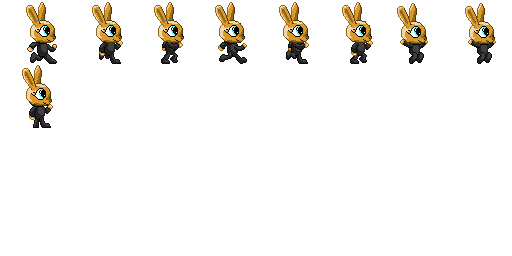
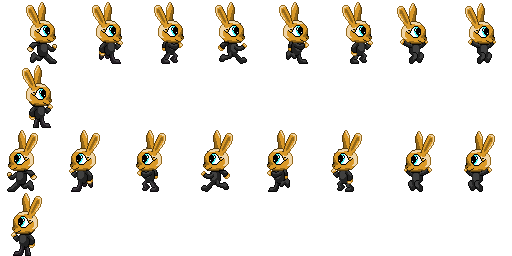
Added sprites in both directions

diff --git a/src/sprite.cpp b/src/sprite.cpp
@@ -61,7 +61,7 @@ void Sprite::draw(int viewx,int viewy)
 	if(facing==FACING_LEFT) oslMirrorImageH(image);	// return to normal.
 #else
 	// doesn't do facing. :(
-	SDL_Rect src={left,top,cellw,cellh},dest={x-width/2-viewx,y-height/4-viewy,cellw,cellh};
+	SDL_Rect src={static_cast<Sint16>(left),static_cast<Sint16>(top),static_cast<Uint16>(cellw),static_cast<Uint16>(cellh)},dest={static_cast<Sint16>(x-width/2-viewx),static_cast<Sint16>(y-height/4-viewy),static_cast<Uint16>(cellw),static_cast<Uint16>(cellh)};
 	SDL_BlitSurface(image,&src,screen,&dest);
 #endif
 }
@@ -102,14 +102,27 @@ void Sprite::updatePhysics(Map *map)
 	frameTimer-=1;
 	if(frameTimer<0) {
 		frameTimer=3;
-		if(state==CS_RUNNING)	frame=(frame+1)%6;
-		if(state==CS_STANDING) frame=10;
-		if(state==CS_JUMPING) frame=6;
-		if(state==CS_FALLING) frame=20;	// was 8
-		if(state==CS_LANDING) frame=7;
-		if(state==CS_DEAD) frame=21;	// was 9
-		if(state==CS_PUNCHING) frame=11+((frame+1)%3);
-		if(state==CS_HIT) frame=15;
+        if(facing==FACING_LEFT){
+            if(state==CS_RUNNING)	frame=20+((frame+1)%14);
+            if(state==CS_STANDING) frame=30;
+            if(state==CS_JUMPING) frame=26;
+            if(state==CS_FALLING) frame=40;	// was 8
+            if(state==CS_LANDING) frame=27;
+            if(state==CS_DEAD) frame=41;	// was 9
+            if(state==CS_PUNCHING) frame=11+((frame+1)%3);
+            if(state==CS_HIT) frame=15;
+        }// flip
+        if(facing==FACING_RIGHT){
+            if(state==CS_RUNNING)	frame=(frame+1)%6;
+            if(state==CS_STANDING) frame=10;
+            if(state==CS_JUMPING) frame=6;
+            if(state==CS_FALLING) frame=20;	// was 8
+            if(state==CS_LANDING) frame=7;
+            if(state==CS_DEAD) frame=21;	// was 9
+            if(state==CS_PUNCHING) frame=11+((frame+1)%3);
+            if(state==CS_HIT) frame=15;
+
+        }// return to normal.
 	}
 
 	if(vx<-1.0f || vx>1.0f) state=CS_RUNNING;

diff --git a/src/map.cpp b/src/map.cpp
@@ -173,7 +173,7 @@ void Map::drawTile(int tile, int x, int y)
 	levelImage->y=dy;	// draw it where it goes
 	oslDrawImage(levelImage);
 #else
-	SDL_Rect src={left,top,cellw,cellh},dest={dx,dy,cellw,cellh};
+	SDL_Rect src={static_cast<Sint16>(left),static_cast<Sint16>(top),static_cast<Uint16>(cellw),static_cast<Uint16>(cellh)},dest={static_cast<Sint16>(dx),static_cast<Sint16>(dy),static_cast<Uint16>(cellw),static_cast<Uint16>(cellh)};
 	SDL_BlitSurface( levelImage, &src, screen, &dest);
 #endif
 }
@@ -184,7 +184,7 @@ void Map::draw()
 	oslDrawImage(backgroundImage);
 #else
 	if(backgroundImage) {
-		SDL_Rect src={0,0,screen->w,screen->h};
+		SDL_Rect src={0,0,static_cast<Uint16>(screen->w),static_cast<Uint16>(screen->h)};
 		int srangex=cellw*tilesAcross-screen->w;
 		int srangey=cellh*tilesDown-screen->h;
 		int drangex=backgroundImage->w-screen->w;

diff --git a/src/hud.cpp b/src/hud.cpp
@@ -1,5 +1,5 @@
 #include <SDL/SDL.h>
-#include <SDL/SDL_image.h>
+#include <SDL_image/SDL_image.h>
 #include "hud.h"
 #include "falling.h"
 
@@ -61,8 +61,8 @@ void Hud::animateScore(int viewx,int viewy,Falling *who)
 
 void Hud::drawDigit(int x,int y,int i)
 {
-	SDL_Rect src={i*32,0,32,32};
-	SDL_Rect dest={x,y,32,32};
+	SDL_Rect src={static_cast<Sint16>(i*32),0,32,32};
+	SDL_Rect dest={static_cast<Sint16>(x),static_cast<Sint16>(y),32,32};
 	SDL_BlitSurface(numbers,&src,screen,&dest);
 }
 
@@ -73,7 +73,7 @@ void Hud::drawArrow(int x,int y,int i)
 
 void Hud::drawIcon(int x,int y,SDL_Surface *image)
 {
-	SDL_Rect dest={x,y,0,0};
+	SDL_Rect dest={static_cast<Sint16>(x),static_cast<Sint16>(y),0,0};
 	SDL_BlitSurface(image,NULL,screen,&dest);
 }
 

diff --git a/src/main.cpp b/src/main.cpp
@@ -5,8 +5,8 @@
 #include <oslib/oslib.h>
 #else
 #include <SDL/SDL.h>
-#include <SDL/SDL_image.h>
-#include <SDL/SDL_mixer.h>
+#include <SDL_image/SDL_image.h>
+#include <SDL_mixer/SDL_mixer.h>
 #endif
 #include "main.h"
 #include "hud.h"
@@ -185,7 +185,7 @@ int main(int argc, char **argv)
 	Hud hud;
 	Map map;
 	map.load("data/level.txt");
-	Sprite hero("data/Brown.png",64,64);
+	Sprite hero("data/Rainbow.png",64,64);
 	Sprite baddie("data/White.png",64,64);
 	Sprite target("data/girl.png",64,64);
 	Mix_PlayMusic(song,-1);

diff --git a/src/sprite.h b/src/sprite.h
@@ -5,7 +5,7 @@
 #include <oslib/oslib.h>
 #else
 #include <SDL/SDL.h>
-#include <SDL/SDL_image.h>
+#include <SDL_image/SDL_image.h>
 #endif
 
 #include "falling.h"

diff --git a/src/map.h b/src/map.h
@@ -5,7 +5,7 @@
 #include <oslib/oslib.h>
 #else
 #include <SDL/SDL.h>
-#include <SDL/SDL_image.h>
+#include <SDL_image/SDL_image.h>
 #endif
 
 #include <string>
